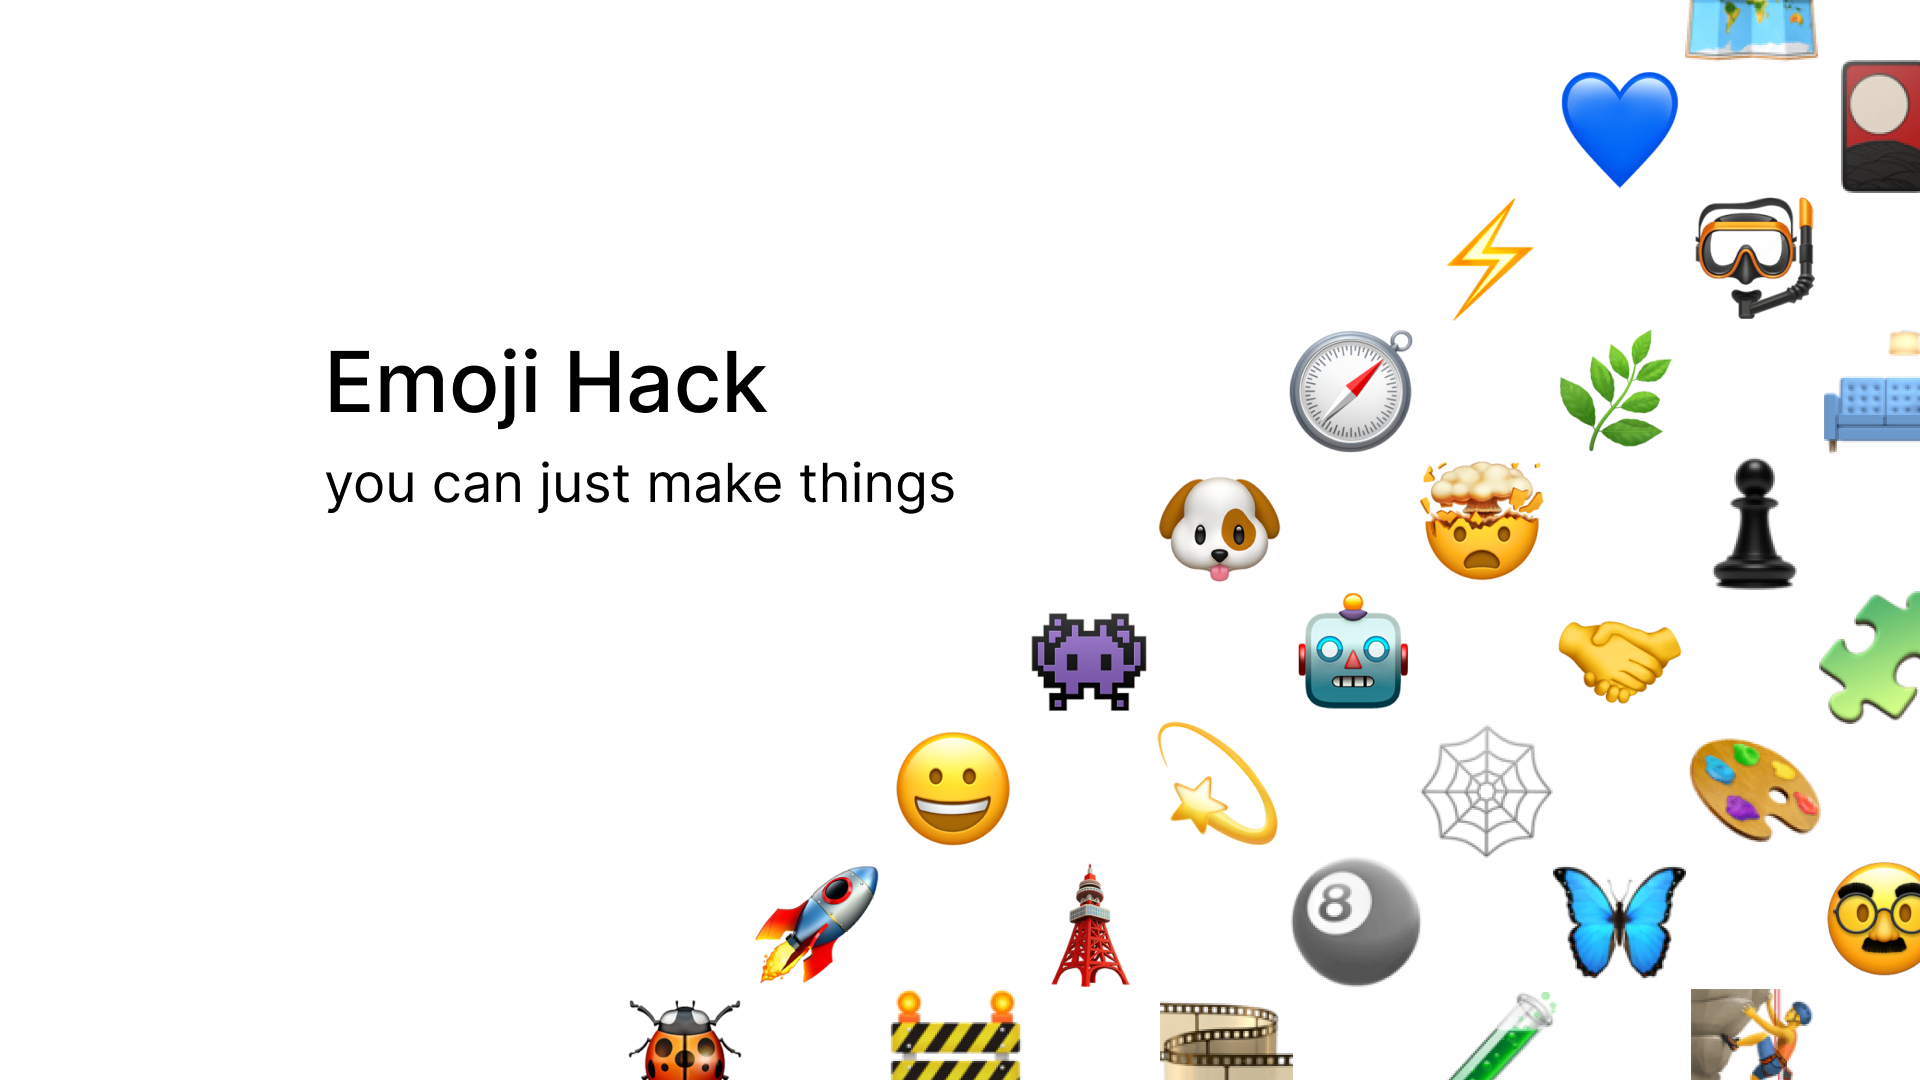
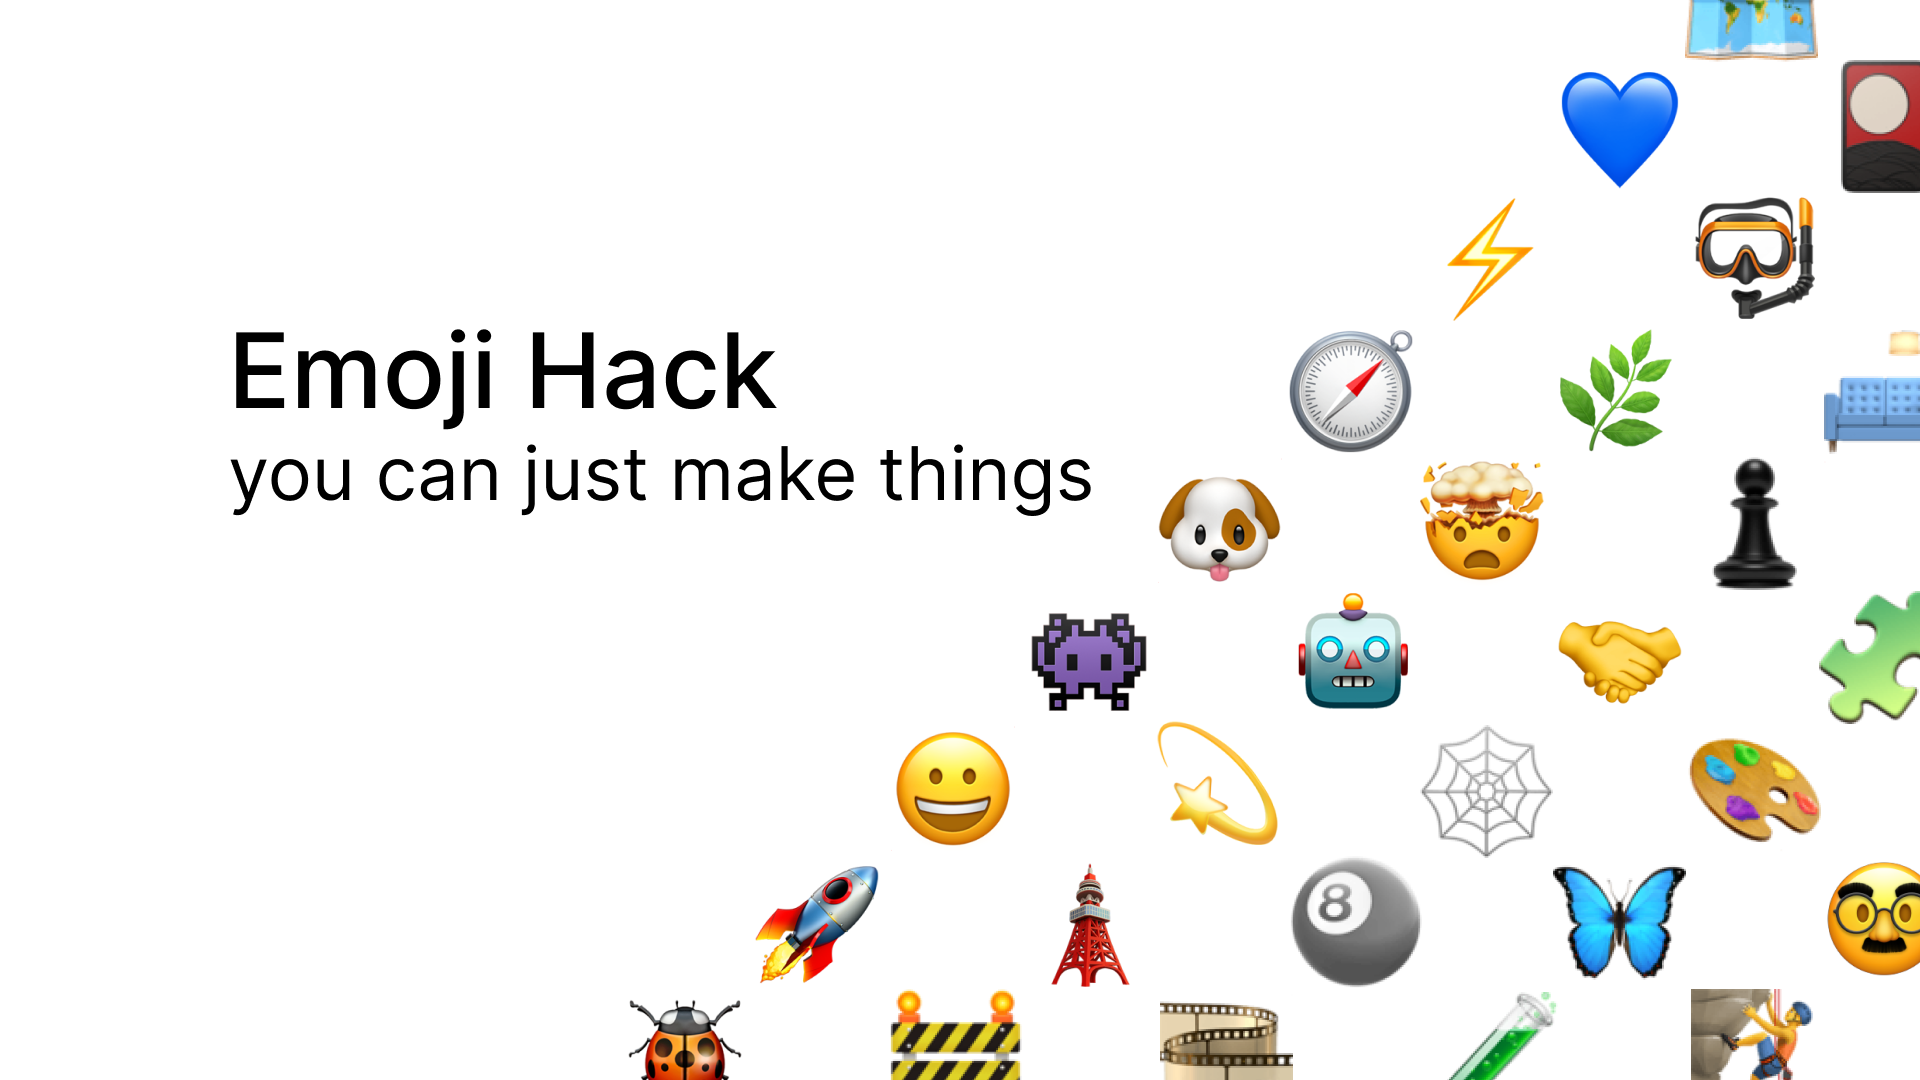
adding og-image

Changed region(s): [[0.125, 0.3972, 0.5625, 0.4889], [0.125, 0.3056, 0.4062, 0.3972]]

diff --git a/app/og/route.tsx b/app/og/route.tsx
@@ -103,7 +103,7 @@ export async function GET(req: NextRequest) {
         
         
         <div style={{
-          fontSize: '104px',
+          fontSize: '114px',
           fontWeight: 'bold',
         }}>
           {projectTitle}
@@ -111,14 +111,14 @@ export async function GET(req: NextRequest) {
         
         </div>
         <div style={{
-          fontSize: '54px',
+          fontSize: '74px',
         }}>
           {formattedDate}
         </div>
         <div
         style={{
           marginTop: '60px',
-          fontSize: '54px',
+          fontSize: '64px',
           backgroundColor: '#2563eb',
           paddingTop: '10px',
           paddingBottom: '10px',
